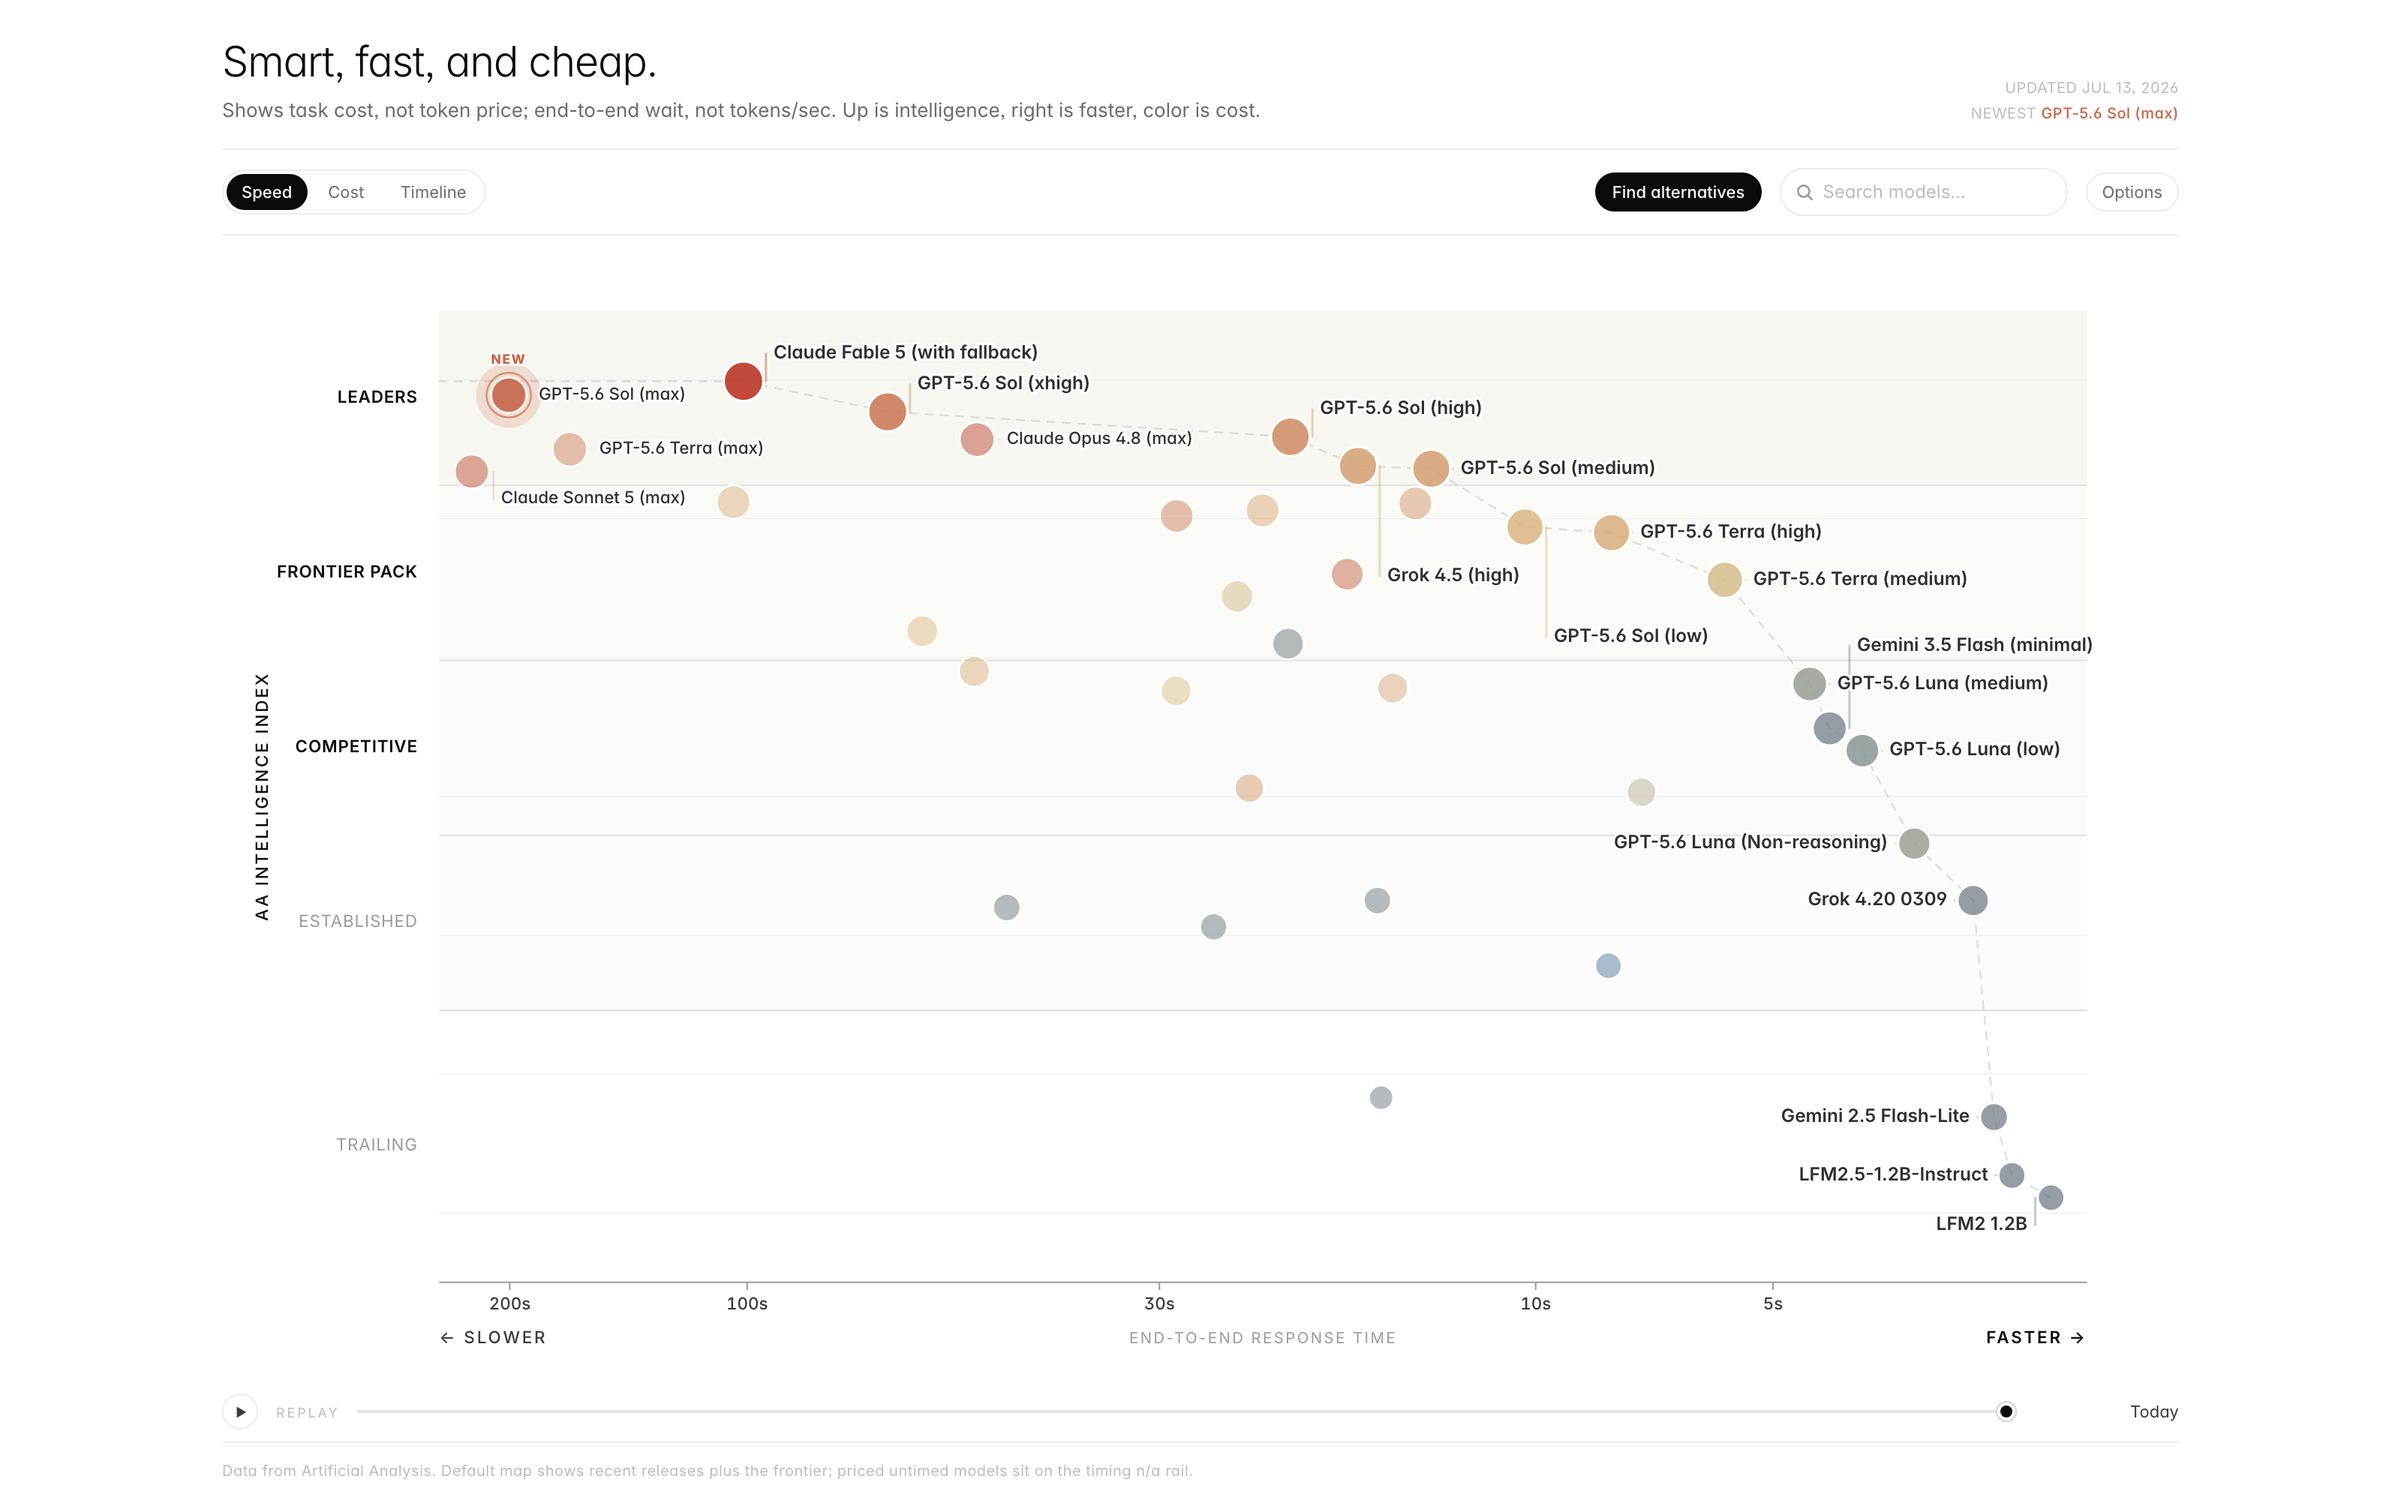
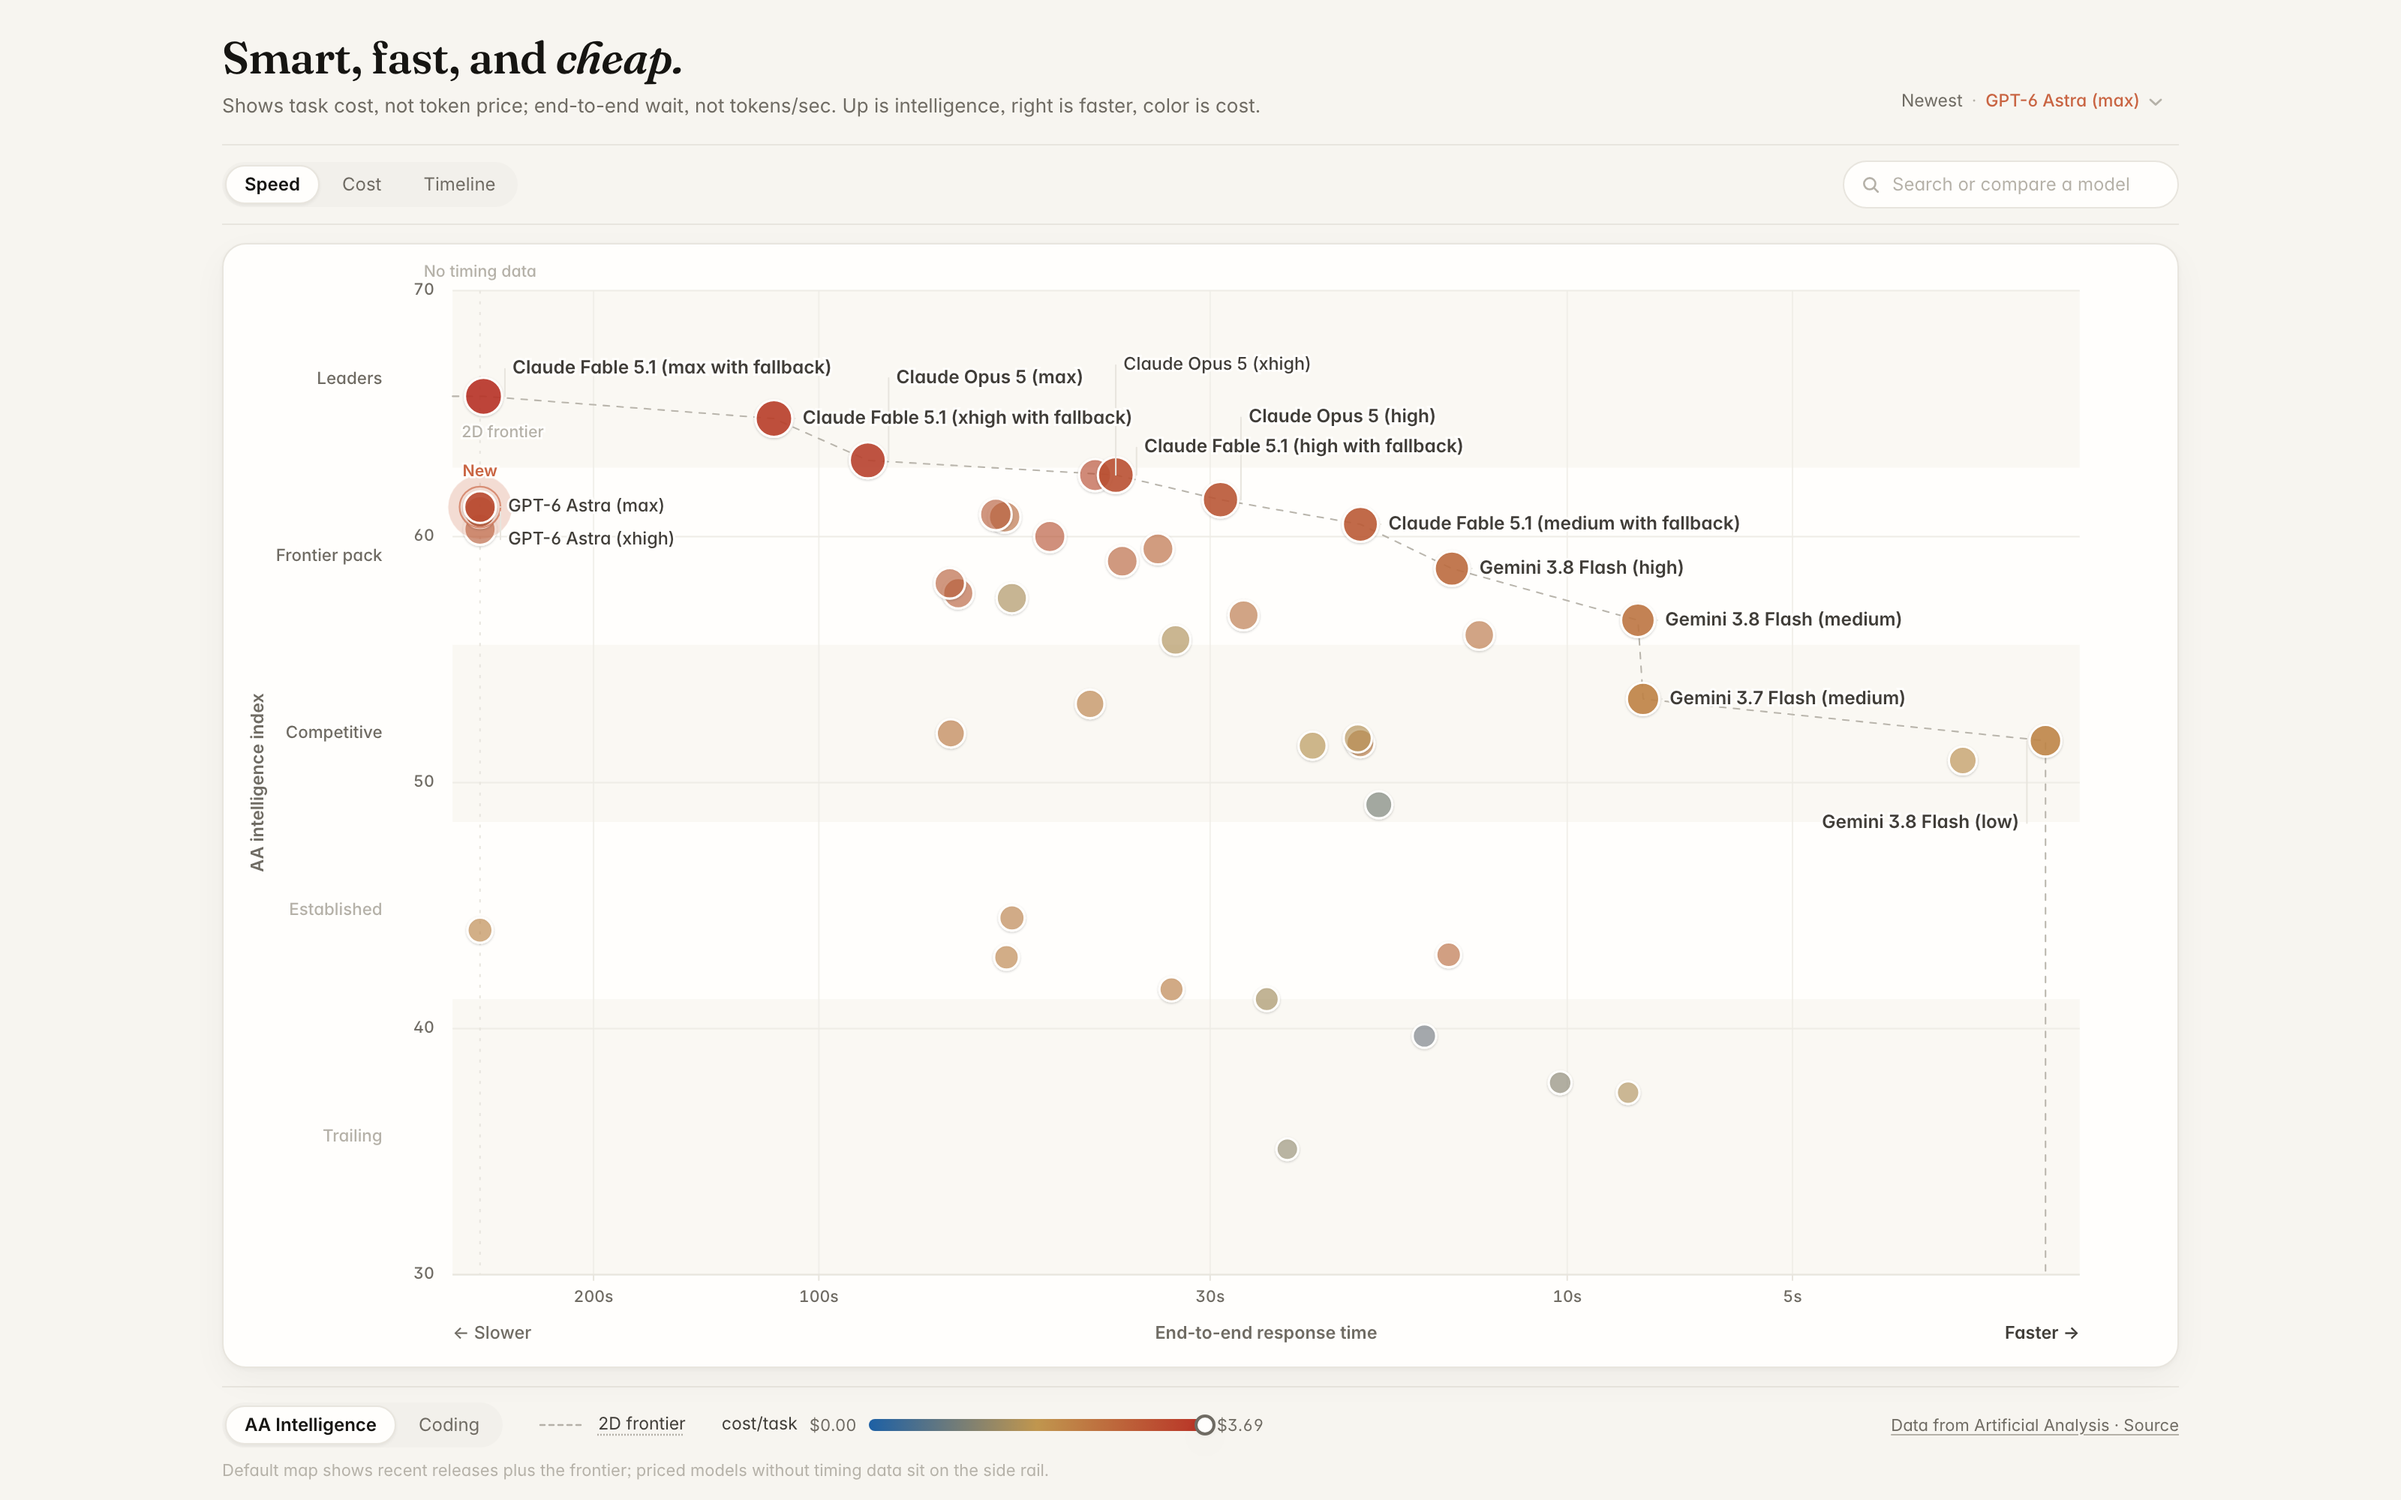
Rewrite the README around what the map answers
Lead with the question the chart answers and a current screenshot, then
one short section per thing you can do — read the frontier, set a budget,
compare what you use now — each with its own picture. Drop the feature
inventory (half of it described controls that no longer exist) in favour
of why task cost and end-to-end wait beat token price and tokens/sec.

diff --git a/README.md b/README.md
@@ -1,42 +1,40 @@
-# ai-analysis
+# Smart, fast, and cheap.
 
-A chart for comparing frontier AI models on the three things that actually matter: intelligence, end-to-end response time, and cost per task.
+**Which AI model should you actually use?** One map of every frontier model on the three things that matter: how smart it is, how long you wait, and what a task really costs.
 
-![screenshot](docs/screenshot.png)
+**[Open the live map →](https://ethangreeney.github.io/ai-analysis/)**
 
-## Why
+![Every frontier model: up is smarter, right is faster, color is cost](docs/screenshot.png)
 
-The existing AI comparison charts are all a bit off. They use token price as a stand-in for cost, which hides how much reasoning models really burn through on a task. Or they treat speed as tokens-per-second, which doesn't capture the wait you actually feel. So this one uses the numbers Artificial Analysis publishes: cost per Intelligence Index task and median end-to-end response time per query.
+## Read it in a glance
 
-- **Intelligence** is the Y axis (AA Intelligence Index, or AA Coding Index via the toggle).
-- **The X axis is switchable**: end-to-end response time, cost per task, or release date. Speed and cost use log scales — wait-time and budgets are both felt multiplicatively.
-- **The third variable is the colour** (cost on the speed view, wait on the cost view), with the legend labelled with the actual min/max values in the data.
+**Up is smarter. Right is faster. Color is cost.** The dashed line is the frontier: models no other model beats on both axes. If a model isn't on the line, something is smarter *and* faster.
 
-## Views
+Flip the axis to **Cost** to see smart-and-cheap instead, or **Timeline** to watch the intelligence record get broken release by release.
 
-- **Speed** (default): up is smarter, right is faster, colour is cost. The dashed line is the Pareto frontier — models no other model beats on both axes.
-- **Cost**: up is smarter, right is cheaper per task, colour is wait.
-- **Timeline**: every benchmarked model by release date. The dashed line is the record line — each step is the model that raised the all-time intelligence record when it shipped.
-- **Limits**: set a max wait and/or max cost per task; everything that doesn't fit fades out and the smartest model that does gets flagged as the top pick.
-- **Find alternatives**: choose the model you use now to get a ranked shortlist of five, based on capability, response time, and task cost. Pick any of them — or click any dot — to focus the chart on a direct comparison.
-- **Relative comparison stats**: the comparison strip reports differences the way you'd repeat them out loud — "+3.3 intelligence", "1.3× faster", "1.4× pricier per task" — never raw cents or seconds, which mean nothing out of context.
-- **Share a comparison**: the current model and considered alternative are saved in the URL. Shared links reopen with both points emphasized, a directional connector, and the surrounding models de-emphasized for context.
+## Set a budget
 
-## Reading the map
+Drag the cost cap in from the right. Everything pricier fades to a ghost, and the frontier redraws to show **the best you can get for that much**.
 
-The default view is a landscape, not a full census: recent releases plus the frontier, capped so the field stays legible, with a limited number of variants per model family. The value axis is cropped to the models actually drawn rather than anchored at zero, and models far below the pack are demoted out of the default view — search or a comparison brings any of them back.
+![Cap set at $1.28 per task: pricier models fade out and the frontier redraws](docs/cap.png)
 
-Every control is mirrored into the URL hash, so any view — a metric, a search, a set of limits, a comparison — is shareable by copying the address.
+## Compare what you use now
 
-## Run it
+Click any dot, then a second one. The card says it in plain terms: **+1.6 intelligence, 3.5× faster, 0.2× the cost per task.** Copy the link and the whole comparison travels with it.
+
+![Claude Opus 4.7 vs Gemini 3.8 Flash: +1.6 intelligence, 3.5× faster, 0.2× the cost](docs/compare.png)
+
+## Why these numbers
+
+Most comparison charts use **token price** and **tokens per second**. Both mislead for reasoning models, which quietly burn thousands of tokens thinking. This map uses what [Artificial Analysis](https://artificialanalysis.ai) measures end to end: **cost per Intelligence Index task** and **median response time per query**. Those are the numbers you feel on the bill and in the wait.
+
+Data refreshes automatically several times an hour, new models appear the day Artificial Analysis publishes them, and every day's snapshot is archived in this repo.
+
+## Run it locally
 
 ```sh
 npm install
-cp .env.example .env   # paste your Artificial Analysis API key
-npm run fetch          # pull latest model numbers and refresh docs/screenshot.png
-npm run dev            # opens the chart in your browser
+cp .env.example .env   # add your Artificial Analysis API key
+npm run fetch          # pull the latest numbers
+npm run dev
 ```
-
-`npm run fetch` discovers the model list from the live Artificial Analysis API and model metrics payload, then regenerates the local data file and README screenshot. Rows without the selected Y-axis metric are not plotted for that view. Priced rows without end-to-end response time sit on the timing n/a rail; rows without cost per task use a neutral color when surfaced by search.
-
-The scheduled deploy checks for fresh data four times an hour and archives a dated copy whenever it changes, so day-by-day snapshots accumulate in the repo.
